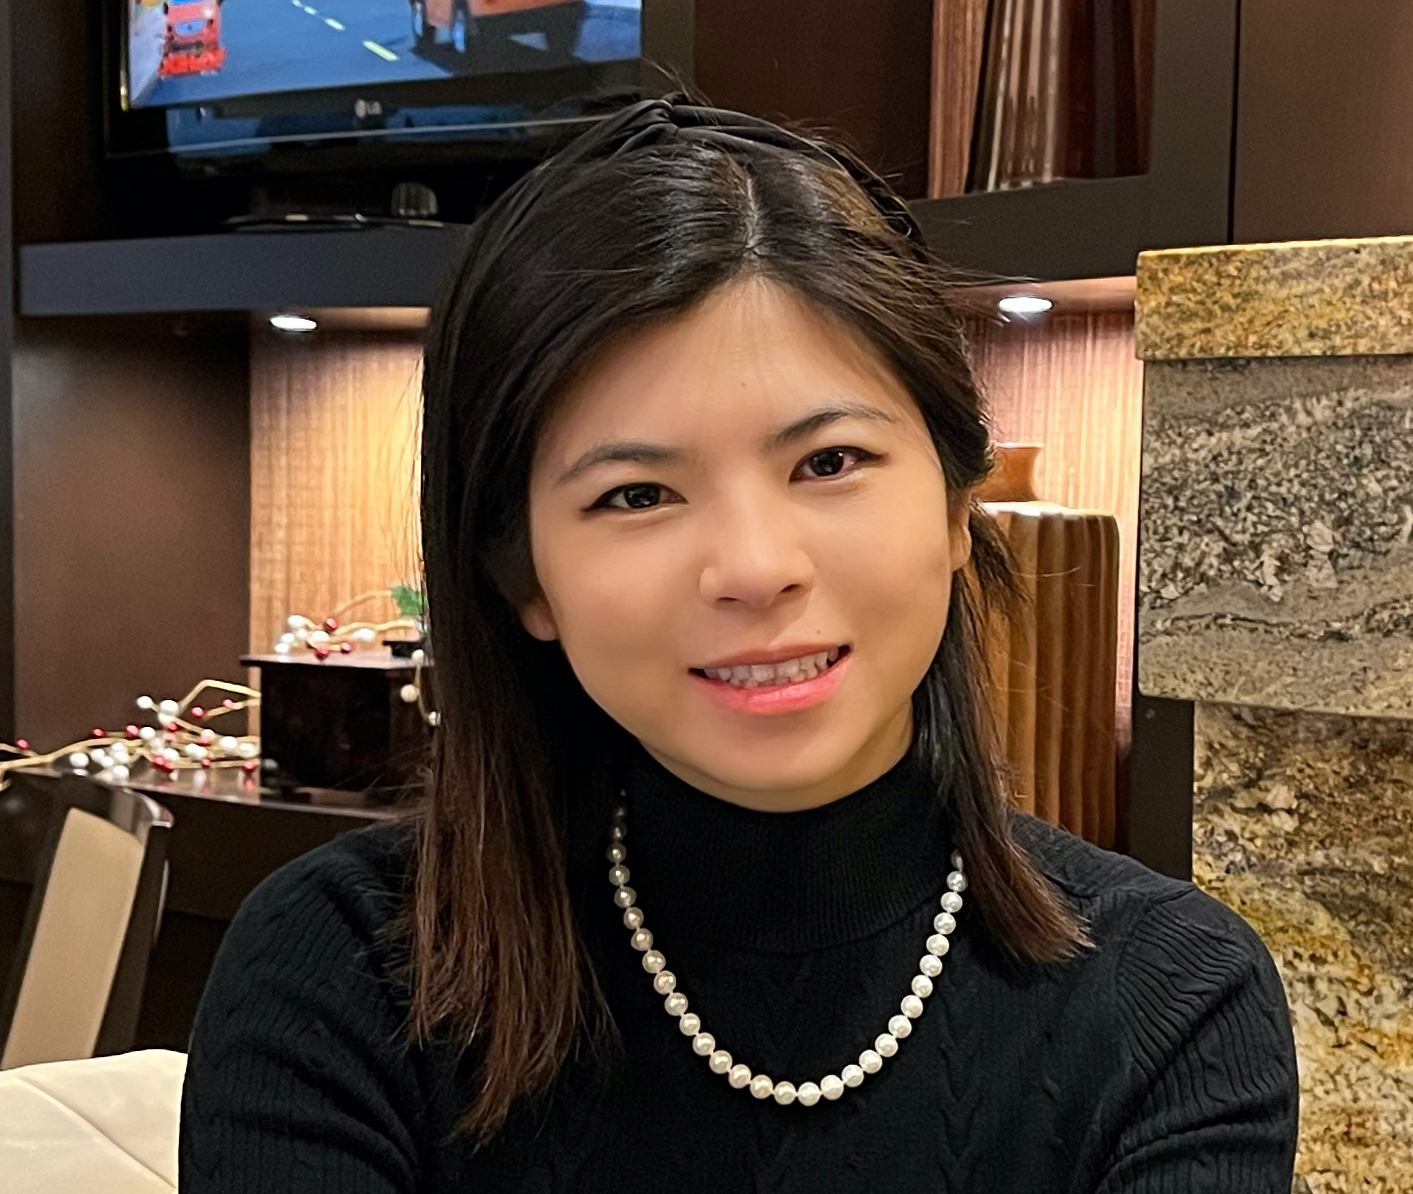
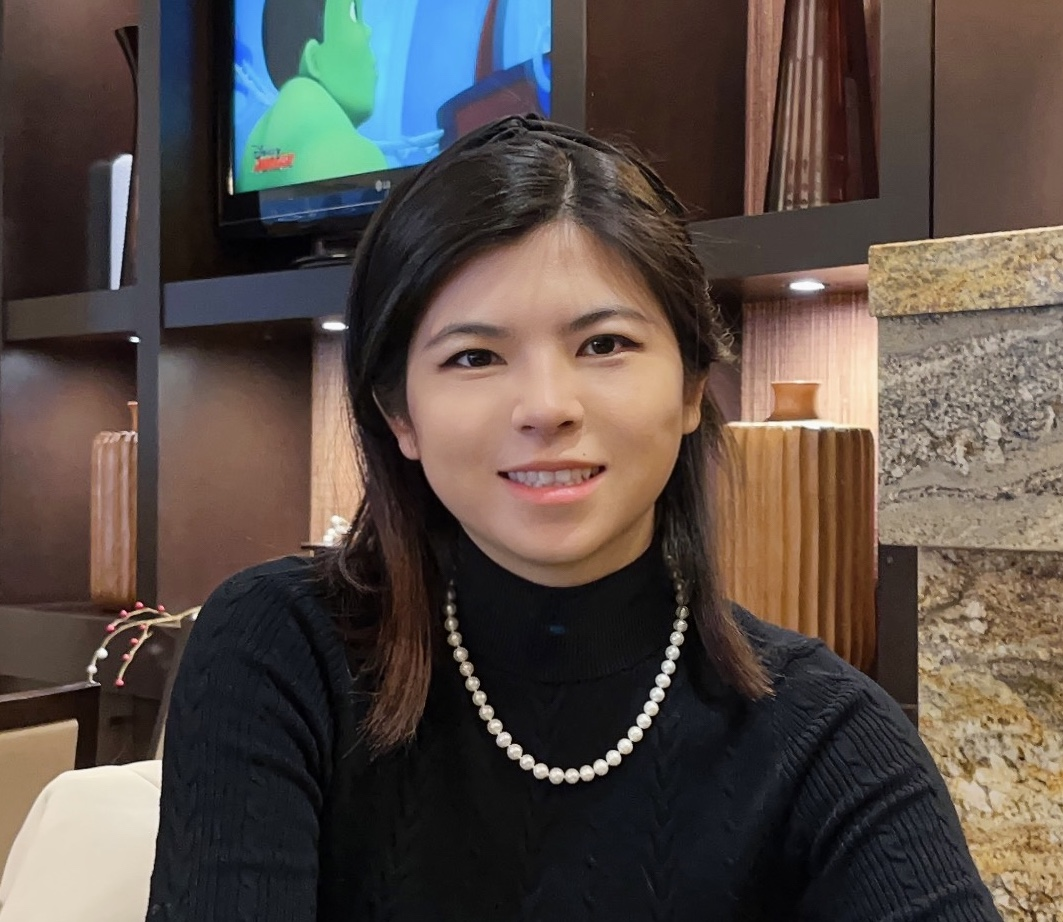
update website with personal info

diff --git a/index.html b/index.html
@@ -888,7 +888,7 @@
 
       
       
-      <img class="avatar avatar-circle" src="/authors/admin/avatar_hu1b525bdcc36b53a73f5873a201f7a3f4_1744783_270x270_fill_q75_lanczos_center.JPG" alt="Zhuangdi Zhu">
+      <img class="avatar avatar-circle" src="/authors/admin/avatar_hu5979dd65725cdda6041facf5c5e7ec4d_284403_270x270_fill_q75_lanczos_center.jpg" alt="Zhuangdi Zhu">
       
 
       <div class="portrait-title">
@@ -981,10 +981,11 @@
       <p>I am Zhu, Zhuangdi (朱 <a href="https://en.wikipedia.org/wiki/Zhuang_Zhou" target="_blank" rel="noopener">庄</a><a href="https://en.wikipedia.org/wiki/Mozi" target="_blank" rel="noopener">翟</a>). I am currently a senior Data &amp; Applied Scientist working with Microsoft. I received my PhD degree from the Department of Computer Science and Engineering, Michigan State University, advised by <a href="https://jiayuzhou.github.io/" target="_blank" rel="noopener">Professor Jiayu Zhou</a>. I am an alumni member of the <a href="https://illidanlab.github.io/" target="_blank" rel="noopener">ILLIDAN Lab@MSU</a>.</p>
 <p>My research interest resides in both applied and fundamental <em>machine learning</em>.  I am dedicated to developing <em>principled</em> algorithms that facilitate  <em>knowledge transfer</em> across domains. My current research focuses on <em>Reinforcement Learning</em> and <em>Federated Learning</em>. My previous research involves <em>systems</em>, <em>scheduling</em>, and <em>wireless networking</em>. Some of my selected research topics:</p>
 <ul>
-<li><strong>Sample-efficient Reinforcement Learning</strong>  from <a href="/publication/opolo">partially observable</a> and <a href="/publication/sail">suboptimal</a> resource.</li>
-<li><strong>Federated Learning</strong> with <a href="/publication/fedgen"><em>data</em></a> and <a href="/publication/fedrescue"><em>system</em></a> heterogeneity.</li>
-<li><strong>Robust</strong> and <strong>Fair</strong> learning with <a href="/publication/ruda">unsupervised data</a> and <a href="/publication/fedab">distributed devices</a>.</li>
+<li><em>Sample-efficient Reinforcement Learning</em>  from <a href="/publication/opolo">partially observable</a> and <a href="/publication/sail">suboptimal</a> resource.</li>
+<li><em>Federated Learning</em> with <a href="/publication/fedgen"><em>data</em></a> and <a href="/publication/fedrescue"><em>system</em></a> heterogeneity.</li>
+<li><em>Robust</em> and <em>Fair</em> learning with <a href="/publication/ruda">unsupervised data</a> and <a href="/publication/fedab">distributed devices</a>.</li>
 </ul>
+<p><strong>📢📢 I will join the <a href="https://cybersecurity.gmu.edu/" target="_blank" rel="noopener">Department of Cyber Security Engineering</a> at George Mason University as a tenure-track assistant professor in Jan 2024.</strong> I am looking for prospective Ph.D. students starting at Spring 2024 or Fall 2024. Please email me your CV if you are interested!</p>
 <!-- <details>
 <summary>More</summary>
 
@@ -1134,20 +1135,21 @@
 
 * Research Intern with Dr. [Lingjuan Lyu](https://sites.google.com/view/lingjuan-lyu/home), Sony AI, 2022 -->
 <h3 id="news">News</h3>
-<font size=4>
-* **August, 2023** I was invited for a talk on AI2Healthcare.[[recording](https://ai2healthcare.github.io/ai4pharma/2023/08/20/Dr.Zhuangdi_Zhu)]
-* **June, 2023** 🎉 Our survey paper, [*Transfer Learning in Deep Reinforcement Learning*](https://arxiv.org/pdf/2009.07888.pdf) has been accepted for publication in the IEEE Transactions on Pattern Analysis and Machine Intelligence (TPAMI) journal.
-* **May, 2023** 🎉 We will host a KDD workshop on federated learning for distributed data mining (FL4Data-Mining). Check more details at [fl4data-mining.github.io](https://fl4data-mining.github.io/).
-* **Sep, 2022**: I joined Microsoft as a Senior Data & Applied Scientist.
-* **Aug, 2022**: Our paper about Robust Unsupervised Domain Adaptation has been accepted by ICDM 2022 [[paper]](https://ieeexplore.ieee.org/abstract/document/10027787).
-* **May, 2022**: Our paper about Resilient and Communication Efficient Federated Learning has been accepted by ICML 2022 [[paper]](https://proceedings.mlr.press/v162/zhu22e/zhu22e.pdf).
-* **Dec, 2021**: Our paper about Self-Adaptive Imitation Learning has been accepted by AAAI 2022 [[paper]](https://www.aaai.org/AAAI22Papers/AAAI-10614.ZhuZ.pdf). 
-* **June, 2021**: I joined the Ads Core Machine Learning team of Meta as a PhD SDE intern. 
-* **May, 2021**: Our paper about Knowledge Transfer in Federated Learning has been accepted by ICML 2021 [[paper]](https://arxiv.org/pdf/2105.10056.pdf)  [[code]](https://github.com/zhuangdizhu/FedGen).
-* **May, 2021**: Our paper about Debiasing in Federated Learning has been accepted by KDD 2021 [[paper]](https://dl.acm.org/doi/pdf/10.1145/3447548.3467281) [[project]](https://jyhong.gitlab.io/project/federated-learning/)).
-* **Sep, 2020** Our paper about Imitation Learning has been accepted by NeurIPS 2020  [[paper]](https://papers.nips.cc/paper/2020/file/92977ae4d2ba21425a59afb269c2a14e-Paper.pdf) [[code]](https://github.com/illidanlab/opolo-code)).
+<ul>
+<li><strong>June, 2023</strong> 🎉 Our survey paper, <a href="https://arxiv.org/pdf/2009.07888.pdf" target="_blank" rel="noopener"><em>Transfer Learning in Deep Reinforcement Learning</em></a> has been accepted for publication in the IEEE Transactions on Pattern Analysis and Machine Intelligence (TPAMI) journal.</li>
+<li><strong>May, 2023</strong> 🎉 We will host a KDD workshop on federated learning for distributed data mining (FL4Data-Mining). Check more details at <a href="https://fl4data-mining.github.io/" target="_blank" rel="noopener">fl4data-mining.github.io</a>.</li>
+<li><strong>Sep, 2022</strong>: I joined Microsoft as a Senior Data &amp; Applied Scientist.</li>
+<li><strong>Aug, 2022</strong>: Our paper about Robust Unsupervised Domain Adaptation has been accepted by ICDM 2022 <a href="https://ieeexplore.ieee.org/abstract/document/10027787" target="_blank" rel="noopener">[paper]</a>.</li>
+<li><strong>May, 2022</strong>: Our paper about Resilient and Communication Efficient Federated Learning has been accepted by ICML 2022 <a href="https://proceedings.mlr.press/v162/zhu22e/zhu22e.pdf" target="_blank" rel="noopener">[paper]</a>.</li>
+<li><strong>Dec, 2021</strong>: Our paper about Self-Adaptive Imitation Learning has been accepted by AAAI 2022 <a href="https://www.aaai.org/AAAI22Papers/AAAI-10614.ZhuZ.pdf" target="_blank" rel="noopener">[paper]</a>.</li>
+<li><strong>June, 2021</strong>: I joined the Ads Core Machine Learning team of Meta as a PhD SDE intern.</li>
+<li><strong>May, 2021</strong>: Our paper about Knowledge Transfer in Federated Learning has been accepted by ICML 2021 <a href="https://arxiv.org/pdf/2105.10056.pdf" target="_blank" rel="noopener">[paper]</a>  <a href="https://github.com/zhuangdizhu/FedGen" target="_blank" rel="noopener">[code]</a>.</li>
+<li><strong>May, 2021</strong>: Our paper about Debiasing in Federated Learning has been accepted by KDD 2021 <a href="https://dl.acm.org/doi/pdf/10.1145/3447548.3467281" target="_blank" rel="noopener">[paper]</a> <a href="https://jyhong.gitlab.io/project/federated-learning/" target="_blank" rel="noopener">[project]</a>).</li>
+<li><strong>Sep, 2020</strong> Our paper about Imitation Learning has been accepted by NeurIPS 2020  <a href="https://papers.nips.cc/paper/2020/file/92977ae4d2ba21425a59afb269c2a14e-Paper.pdf" target="_blank" rel="noopener">[paper]</a> <a href="https://github.com/illidanlab/opolo-code" target="_blank" rel="noopener">[code]</a>).</li>
+</ul>
 <h3 id="invited-talks">Invited Talks</h3>
 <ul>
+<li><strong>Aug, 2023, Invited talk on AI2Healthcare</strong>. [<a href="https://ai2healthcare.github.io/ai4pharma/2023/08/20/Dr.Zhuangdi_Zhu" target="_blank" rel="noopener">video</a>]</li>
 <li><strong>Jan, 2023, Invited talk at GMU</strong>: <em>Knowledge Distillation for Efficient Learning in Heterogeneous Federated Systems</em>.</li>
 <li><strong>Dec, 2022, Invited talk at UT Austin</strong>: <em>Efficient Knowledge Transfer for Heterogeneous Machine Learning Domains</em>.</li>
 <li><strong>ICML 2022 Spotlight Presentation</strong>: <em>Resilient and Communication Efficient Learning for Heterogeneous Federated Systems</em>.  [<a href="https://slideslive.com/38983443/fedrescue-resilient-and-communication-efficient-learning-for-heterogeneous-federated-systems?ref=speaker-42844" target="_blank" rel="noopener">video</a>].</li>
@@ -1248,10 +1250,16 @@
 </ul>
 </li>
 <li>
+<p><strong>Session Chair</strong>:</p>
+<ul>
+<li>29th ACM SIGKDD Conference On Knowledge Discovery and Data Mining (KDD), 2023</li>
+</ul>
+</li>
+<li>
 <p><strong>Program Committee Member</strong>:</p>
 <ul>
 <li>AAAI Conference on Artificial Intelligence (AAAI), 2021-2023</li>
-<li>ACM SIGKDD Conference on Knowledge Discovery and Data Mining (KDD), 2022</li>
+<li>28th ACM SIGKDD Conference on Knowledge Discovery and Data Mining (KDD), 2022</li>
 </ul>
 </li>
 <li>

diff --git a/post/2015-08-04-make-text-table-viewnstableview-auto-resize/index.html b/post/2015-08-04-make-text-table-viewnstableview-auto-resize/index.html
@@ -1117,7 +1117,7 @@ Text field should be able to adjust its size automatically. Image view of bubble
   <div class="media author-card content-widget-hr">
     
       
-      <a href="https://zhuangdizhu.github.io/"><img class="avatar mr-3 avatar-circle" src="/authors/admin/avatar_hu1b525bdcc36b53a73f5873a201f7a3f4_1744783_270x270_fill_q75_lanczos_center.JPG" alt="Zhuangdi Zhu"></a>
+      <a href="https://zhuangdizhu.github.io/"><img class="avatar mr-3 avatar-circle" src="/authors/admin/avatar_hu5979dd65725cdda6041facf5c5e7ec4d_284403_270x270_fill_q75_lanczos_center.jpg" alt="Zhuangdi Zhu"></a>
     
 
     <div class="media-body">

diff --git a/post/linux-rookie/index.html b/post/linux-rookie/index.html
@@ -1137,7 +1137,7 @@ If the command is not found, add below line to your <code>~/.bashrc</code></p>
   <div class="media author-card content-widget-hr">
     
       
-      <a href="https://zhuangdizhu.github.io/"><img class="avatar mr-3 avatar-circle" src="/authors/admin/avatar_hu1b525bdcc36b53a73f5873a201f7a3f4_1744783_270x270_fill_q75_lanczos_center.JPG" alt="Zhuangdi Zhu"></a>
+      <a href="https://zhuangdizhu.github.io/"><img class="avatar mr-3 avatar-circle" src="/authors/admin/avatar_hu5979dd65725cdda6041facf5c5e7ec4d_284403_270x270_fill_q75_lanczos_center.jpg" alt="Zhuangdi Zhu"></a>
     
 
     <div class="media-body">

diff --git a/post/2015-08-04-nstableview-automatically-adjust-height-to-fit-cell-view/index.html b/post/2015-08-04-nstableview-automatically-adjust-height-to-fit-cell-view/index.html
@@ -1081,7 +1081,7 @@ func tableView(tableView: NSTableView, heightOfRow row: Int) -&gt; CGFloat {
   <div class="media author-card content-widget-hr">
     
       
-      <a href="https://zhuangdizhu.github.io/"><img class="avatar mr-3 avatar-circle" src="/authors/admin/avatar_hu1b525bdcc36b53a73f5873a201f7a3f4_1744783_270x270_fill_q75_lanczos_center.JPG" alt="Zhuangdi Zhu"></a>
+      <a href="https://zhuangdizhu.github.io/"><img class="avatar mr-3 avatar-circle" src="/authors/admin/avatar_hu5979dd65725cdda6041facf5c5e7ec4d_284403_270x270_fill_q75_lanczos_center.jpg" alt="Zhuangdi Zhu"></a>
     
 
     <div class="media-body">

diff --git a/post/2015-07-29-add-3rd-part-dynamic-library-dylib-to-xcode-target/index.html b/post/2015-07-29-add-3rd-part-dynamic-library-dylib-to-xcode-target/index.html
@@ -1172,7 +1172,7 @@ $ install_name_tool -id new_install_name bin_file
   <div class="media author-card content-widget-hr">
     
       
-      <a href="https://zhuangdizhu.github.io/"><img class="avatar mr-3 avatar-circle" src="/authors/admin/avatar_hu1b525bdcc36b53a73f5873a201f7a3f4_1744783_270x270_fill_q75_lanczos_center.JPG" alt="Zhuangdi Zhu"></a>
+      <a href="https://zhuangdizhu.github.io/"><img class="avatar mr-3 avatar-circle" src="/authors/admin/avatar_hu5979dd65725cdda6041facf5c5e7ec4d_284403_270x270_fill_q75_lanczos_center.jpg" alt="Zhuangdi Zhu"></a>
     
 
     <div class="media-body">

diff --git a/post/2015-02-04-resettransform-at-scnphysicsbody/index.html b/post/2015-02-04-resettransform-at-scnphysicsbody/index.html
@@ -1064,7 +1064,7 @@ node.physicsBody.resetTransform()
   <div class="media author-card content-widget-hr">
     
       
-      <a href="https://zhuangdizhu.github.io/"><img class="avatar mr-3 avatar-circle" src="/authors/admin/avatar_hu1b525bdcc36b53a73f5873a201f7a3f4_1744783_270x270_fill_q75_lanczos_center.JPG" alt="Zhuangdi Zhu"></a>
+      <a href="https://zhuangdizhu.github.io/"><img class="avatar mr-3 avatar-circle" src="/authors/admin/avatar_hu5979dd65725cdda6041facf5c5e7ec4d_284403_270x270_fill_q75_lanczos_center.jpg" alt="Zhuangdi Zhu"></a>
     
 
     <div class="media-body">

diff --git a/post/2015-02-03-start-my-blog-with-jekyll-and-disqus/index.html b/post/2015-02-03-start-my-blog-with-jekyll-and-disqus/index.html
@@ -1068,7 +1068,7 @@ git push origin master
   <div class="media author-card content-widget-hr">
     
       
-      <a href="https://zhuangdizhu.github.io/"><img class="avatar mr-3 avatar-circle" src="/authors/admin/avatar_hu1b525bdcc36b53a73f5873a201f7a3f4_1744783_270x270_fill_q75_lanczos_center.JPG" alt="Zhuangdi Zhu"></a>
+      <a href="https://zhuangdizhu.github.io/"><img class="avatar mr-3 avatar-circle" src="/authors/admin/avatar_hu5979dd65725cdda6041facf5c5e7ec4d_284403_270x270_fill_q75_lanczos_center.jpg" alt="Zhuangdi Zhu"></a>
     
 
     <div class="media-body">

diff --git a/project/federated-learning/index.html b/project/federated-learning/index.html
@@ -1038,7 +1038,7 @@
   <div class="media author-card content-widget-hr">
     
       
-      <a href="https://zhuangdizhu.github.io/"><img class="avatar mr-3 avatar-circle" src="/authors/admin/avatar_hu1b525bdcc36b53a73f5873a201f7a3f4_1744783_270x270_fill_q75_lanczos_center.JPG" alt="Zhuangdi Zhu"></a>
+      <a href="https://zhuangdizhu.github.io/"><img class="avatar mr-3 avatar-circle" src="/authors/admin/avatar_hu5979dd65725cdda6041facf5c5e7ec4d_284403_270x270_fill_q75_lanczos_center.jpg" alt="Zhuangdi Zhu"></a>
     
 
     <div class="media-body">

diff --git a/project/private-learning/index.html b/project/private-learning/index.html
@@ -1036,7 +1036,7 @@
   <div class="media author-card content-widget-hr">
     
       
-      <a href="https://zhuangdizhu.github.io/"><img class="avatar mr-3 avatar-circle" src="/authors/admin/avatar_hu1b525bdcc36b53a73f5873a201f7a3f4_1744783_270x270_fill_q75_lanczos_center.JPG" alt="Zhuangdi Zhu"></a>
+      <a href="https://zhuangdizhu.github.io/"><img class="avatar mr-3 avatar-circle" src="/authors/admin/avatar_hu5979dd65725cdda6041facf5c5e7ec4d_284403_270x270_fill_q75_lanczos_center.jpg" alt="Zhuangdi Zhu"></a>
     
 
     <div class="media-body">

diff --git a/project/subspace-learning/index.html b/project/subspace-learning/index.html
@@ -1032,7 +1032,7 @@
   <div class="media author-card content-widget-hr">
     
       
-      <a href="https://zhuangdizhu.github.io/"><img class="avatar mr-3 avatar-circle" src="/authors/admin/avatar_hu1b525bdcc36b53a73f5873a201f7a3f4_1744783_270x270_fill_q75_lanczos_center.JPG" alt="Zhuangdi Zhu"></a>
+      <a href="https://zhuangdizhu.github.io/"><img class="avatar mr-3 avatar-circle" src="/authors/admin/avatar_hu5979dd65725cdda6041facf5c5e7ec4d_284403_270x270_fill_q75_lanczos_center.jpg" alt="Zhuangdi Zhu"></a>
     
 
     <div class="media-body">

diff --git a/publication/fedgen/index.html b/publication/fedgen/index.html
@@ -1135,7 +1135,7 @@
   <div class="media author-card content-widget-hr">
     
       
-      <a href="https://zhuangdizhu.github.io/"><img class="avatar mr-3 avatar-circle" src="/authors/admin/avatar_hu1b525bdcc36b53a73f5873a201f7a3f4_1744783_270x270_fill_q75_lanczos_center.JPG" alt="Zhuangdi Zhu"></a>
+      <a href="https://zhuangdizhu.github.io/"><img class="avatar mr-3 avatar-circle" src="/authors/admin/avatar_hu5979dd65725cdda6041facf5c5e7ec4d_284403_270x270_fill_q75_lanczos_center.jpg" alt="Zhuangdi Zhu"></a>
     
 
     <div class="media-body">

diff --git a/publication/fedrescue/index.html b/publication/fedrescue/index.html
@@ -1134,7 +1134,7 @@
   <div class="media author-card content-widget-hr">
     
       
-      <a href="https://zhuangdizhu.github.io/"><img class="avatar mr-3 avatar-circle" src="/authors/admin/avatar_hu1b525bdcc36b53a73f5873a201f7a3f4_1744783_270x270_fill_q75_lanczos_center.JPG" alt="Zhuangdi Zhu"></a>
+      <a href="https://zhuangdizhu.github.io/"><img class="avatar mr-3 avatar-circle" src="/authors/admin/avatar_hu5979dd65725cdda6041facf5c5e7ec4d_284403_270x270_fill_q75_lanczos_center.jpg" alt="Zhuangdi Zhu"></a>
     
 
     <div class="media-body">
